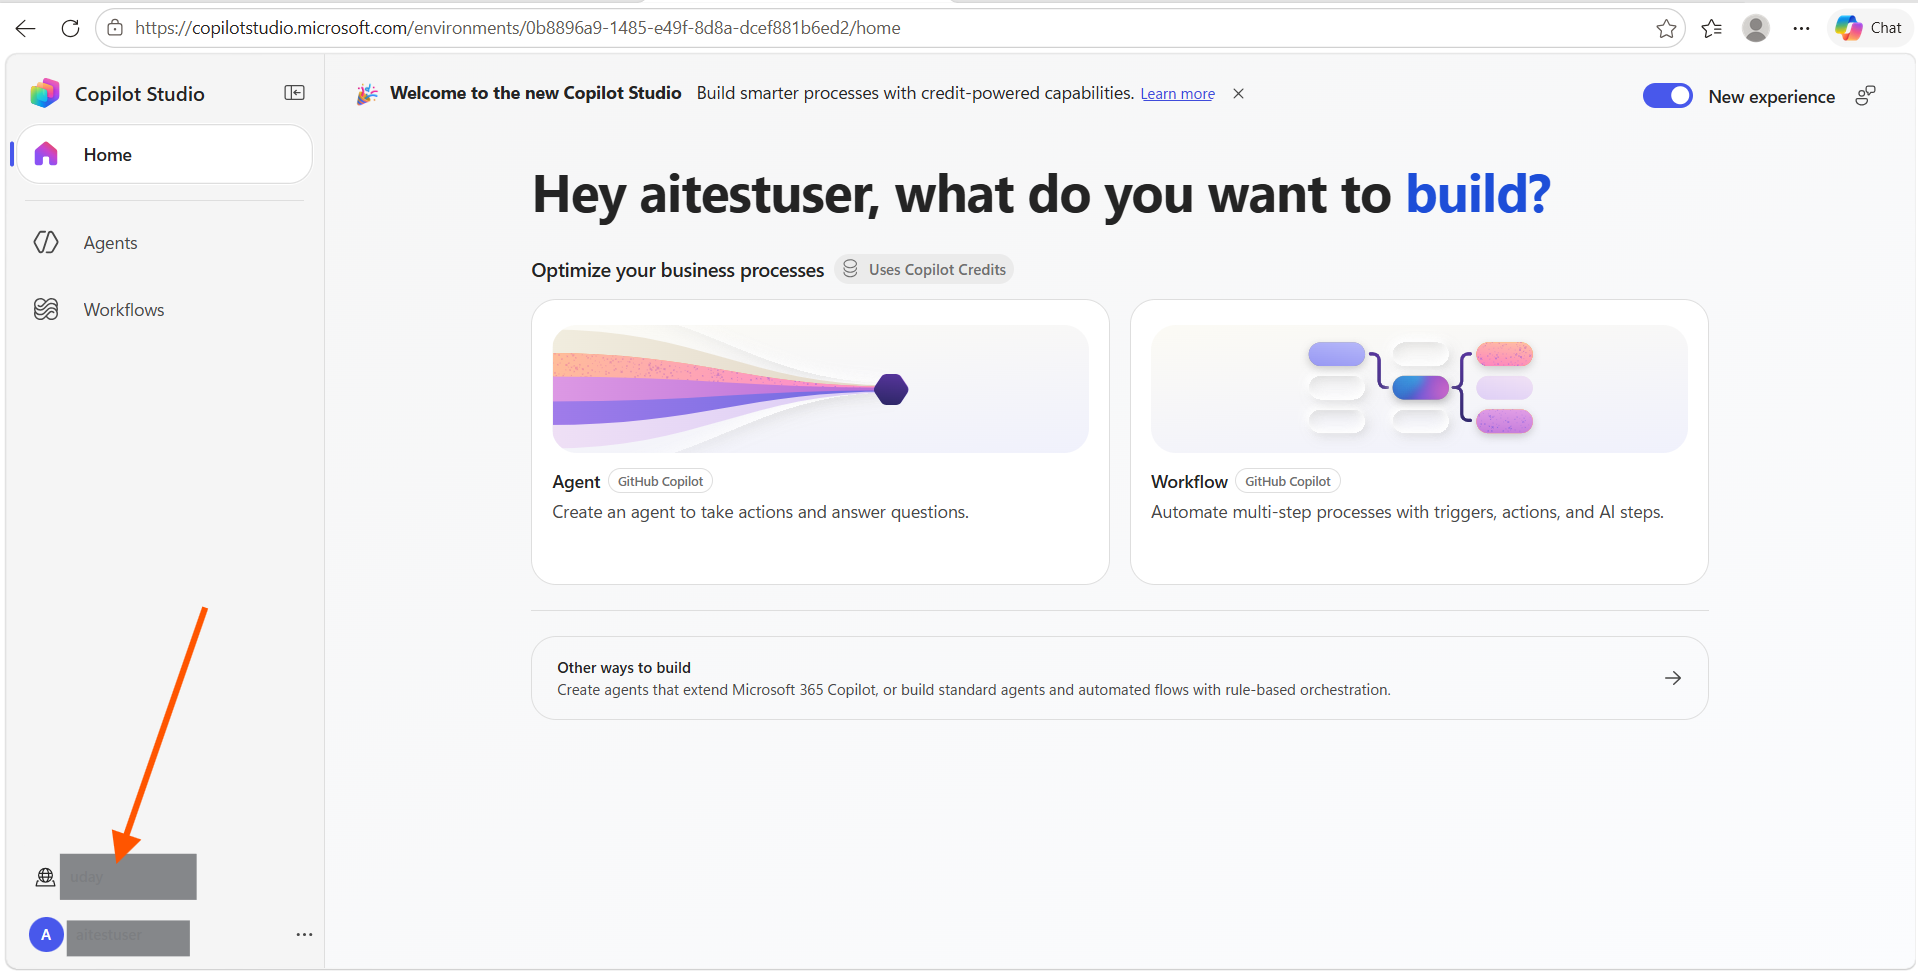
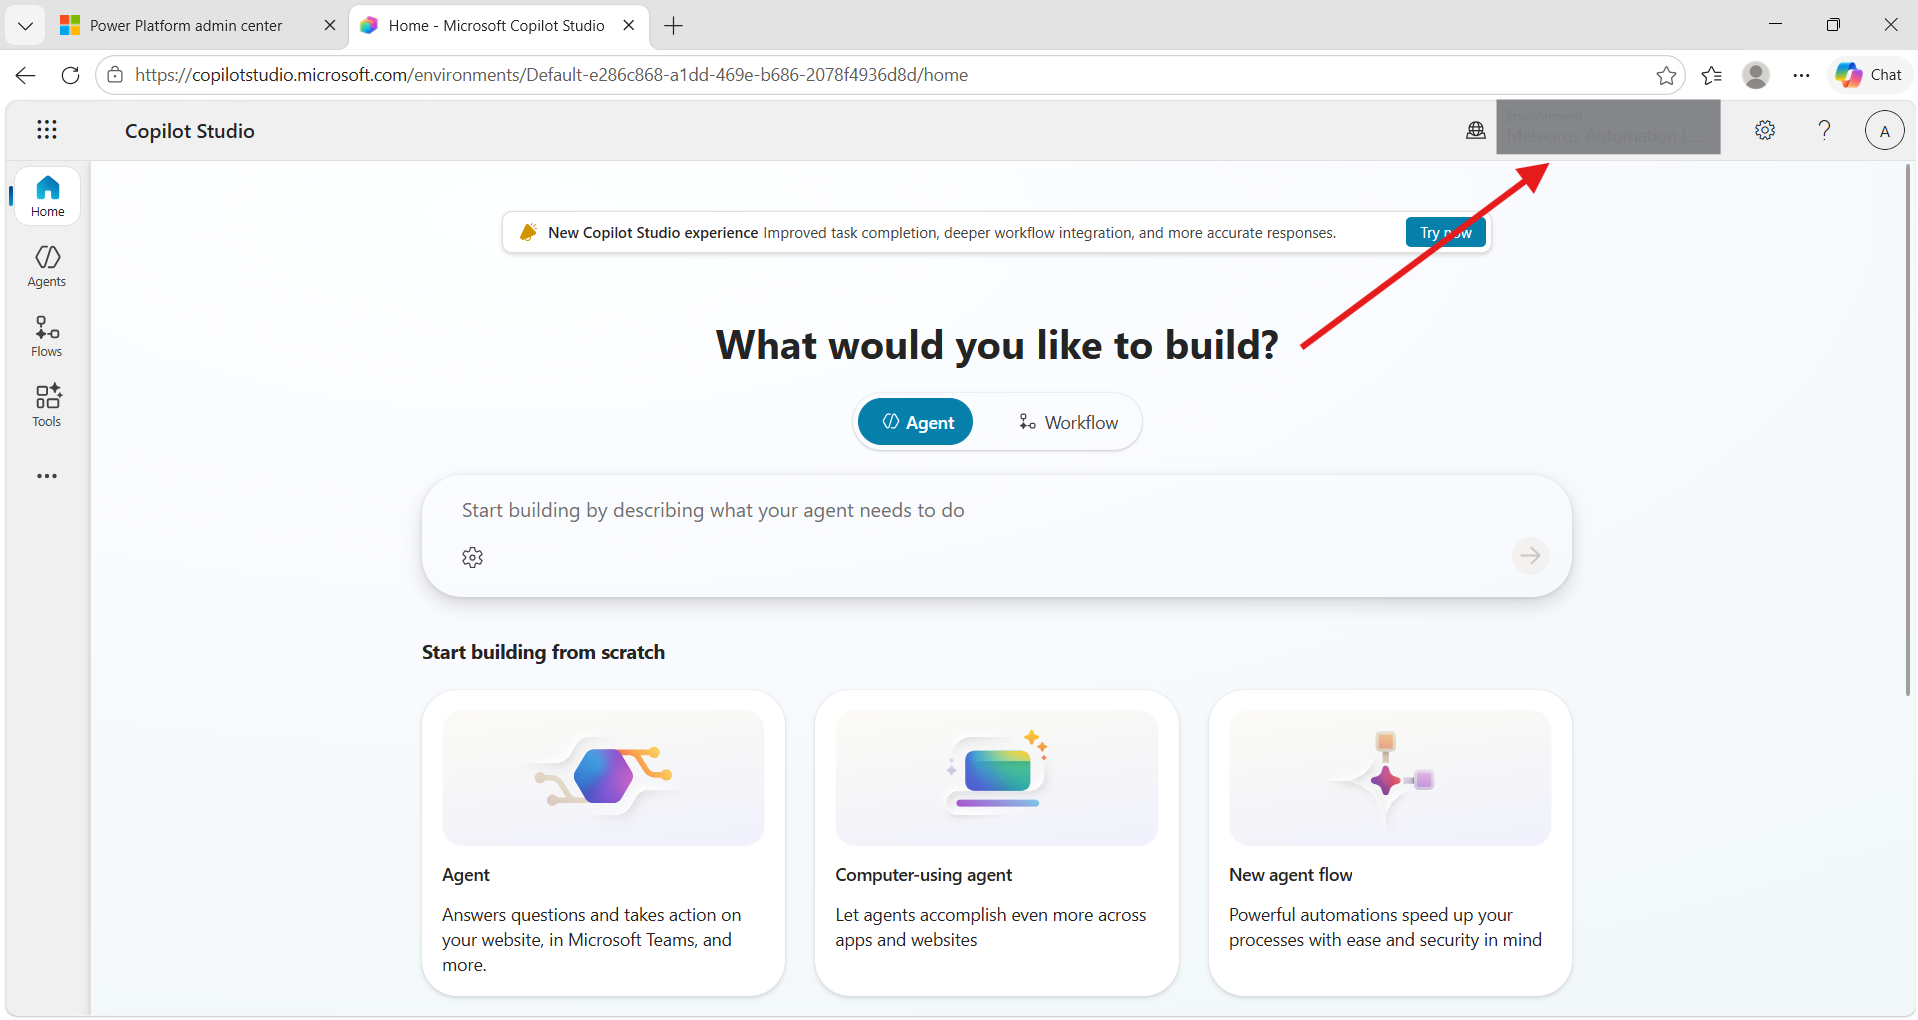
docs(day-09): update environment setup instructions

diff --git a/Instructions/Exercises/Day-09/Lab-00-ILT-setup.md b/Instructions/Exercises/Day-09/Lab-00-ILT-setup.md
@@ -67,8 +67,8 @@ Before you start the lab exercises, you must create a development environment fo
    > 4. Open `https://copilotstudio.microsoft.com/environments/<your-environment-id>/home`, replacing `<your-environment-id>` with the copied environment ID.
 2. If prompted, select **Get Started** and keep the default country or region settings.
 3. Skip any welcome messages.
-4. Look at the **lower-left corner** of the page. You will see your account name at the very bottom. **Just above your account name is the Environment Selector.**
-5. Check the Environment Selector. If your **named environment** is already shown there, **skip to Task 1.4 - Create a solution**.
+4. Look at the **upper-right corner** of the page. Just to the left of the **Settings** ⚙ icon, you will see the **Environment Selector** showing your current environment.
+5. Check the **Environment Selector**. If your *named environment* is already displayed, **skip to Task 1.4 - Create a solution**. If it is not displayed, continue with the following steps to select your *named environment*.
 6. If your **named environment** is not shown, click the **Environment Selector**.
    ![Environment Selector.](../../media/u1.png)
 7. The **Switch environment** menu will open.
